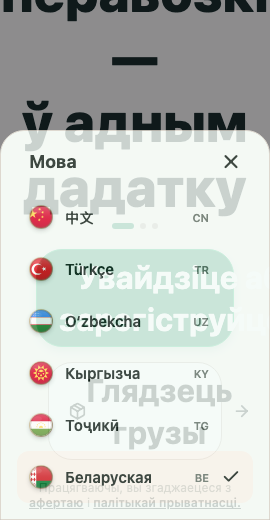
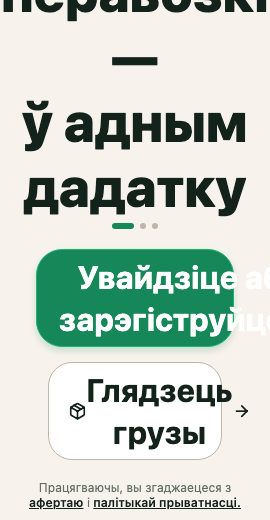
Разрешить перенос длинного текста кнопок при крупном шрифте

diff --git a/src/screens/onboarding/OnboardingV2Screen.js b/src/screens/onboarding/OnboardingV2Screen.js
@@ -398,8 +398,9 @@ const makeStyles = (brand) => StyleSheet.create({
     shadowOffset: { width: 0, height: 4 },
     elevation: 4,
   },
-  ctaPrimaryText: { ...typography.button, color: '#FFFFFF', flex: 1, textAlign: 'center', fontWeight: '700', fontSize: 18 },
+  ctaPrimaryText: { ...typography.button, color: '#FFFFFF', flex: 1, flexShrink: 1, minWidth: 0, textAlign: 'center', fontWeight: '700', fontSize: 18 },
   ctaArrowBubble: {
+    flexShrink: 0,
     width: 38,
     height: 38,
     borderRadius: 19,
@@ -410,7 +411,7 @@ const makeStyles = (brand) => StyleSheet.create({
     borderColor: 'rgba(255,255,255,0.10)',
   },
   ctaOutline: { minHeight: 48, paddingVertical: 6, width: '76%', maxWidth: 480, borderRadius: 24, flexDirection: 'row', alignItems: 'center', justifyContent: 'space-between', alignSelf: 'center', paddingHorizontal: 20, marginTop: 15, borderWidth: 1, borderColor: brand.borderStrong, backgroundColor: brand.surface },
-  ctaOutlineText: { ...typography.button, color: brand.textPrimary, flex: 1, textAlign: 'center', fontWeight: '700', fontSize: 17 },
+  ctaOutlineText: { ...typography.button, color: brand.textPrimary, flex: 1, flexShrink: 1, minWidth: 0, textAlign: 'center', fontWeight: '700', fontSize: 17 },
   consent: { fontSize: 12, color: brand.textSecondary, textAlign: 'center', marginTop: 20 },
   consentLink: { color: brand.textPrimary, textDecorationLine: 'underline', fontWeight: '600' },
   qaBlock: { marginTop: 10, paddingTop: 10, borderTopWidth: 1, borderTopColor: brand.borderStrong, gap: 6 },
